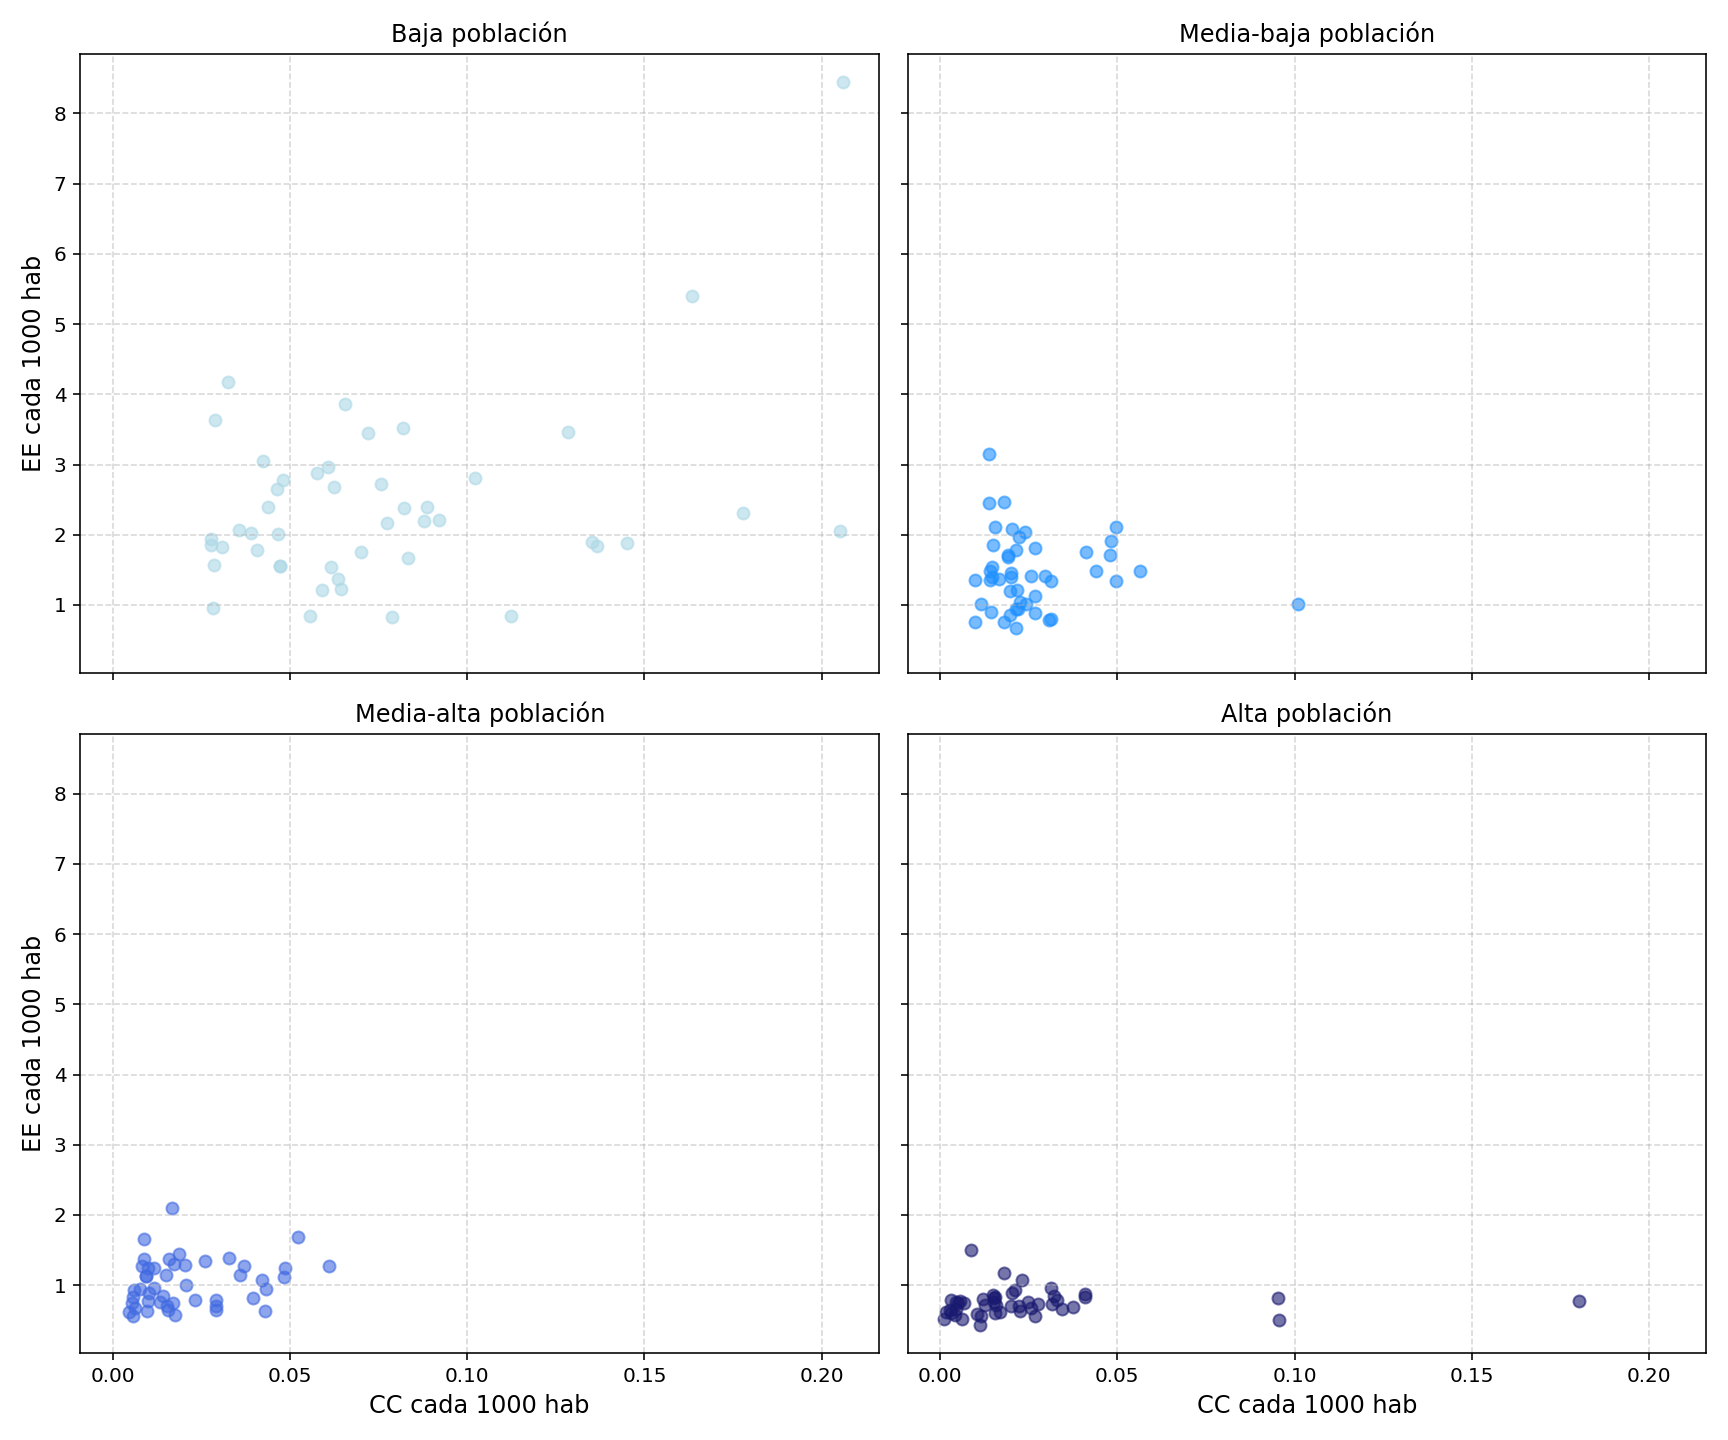
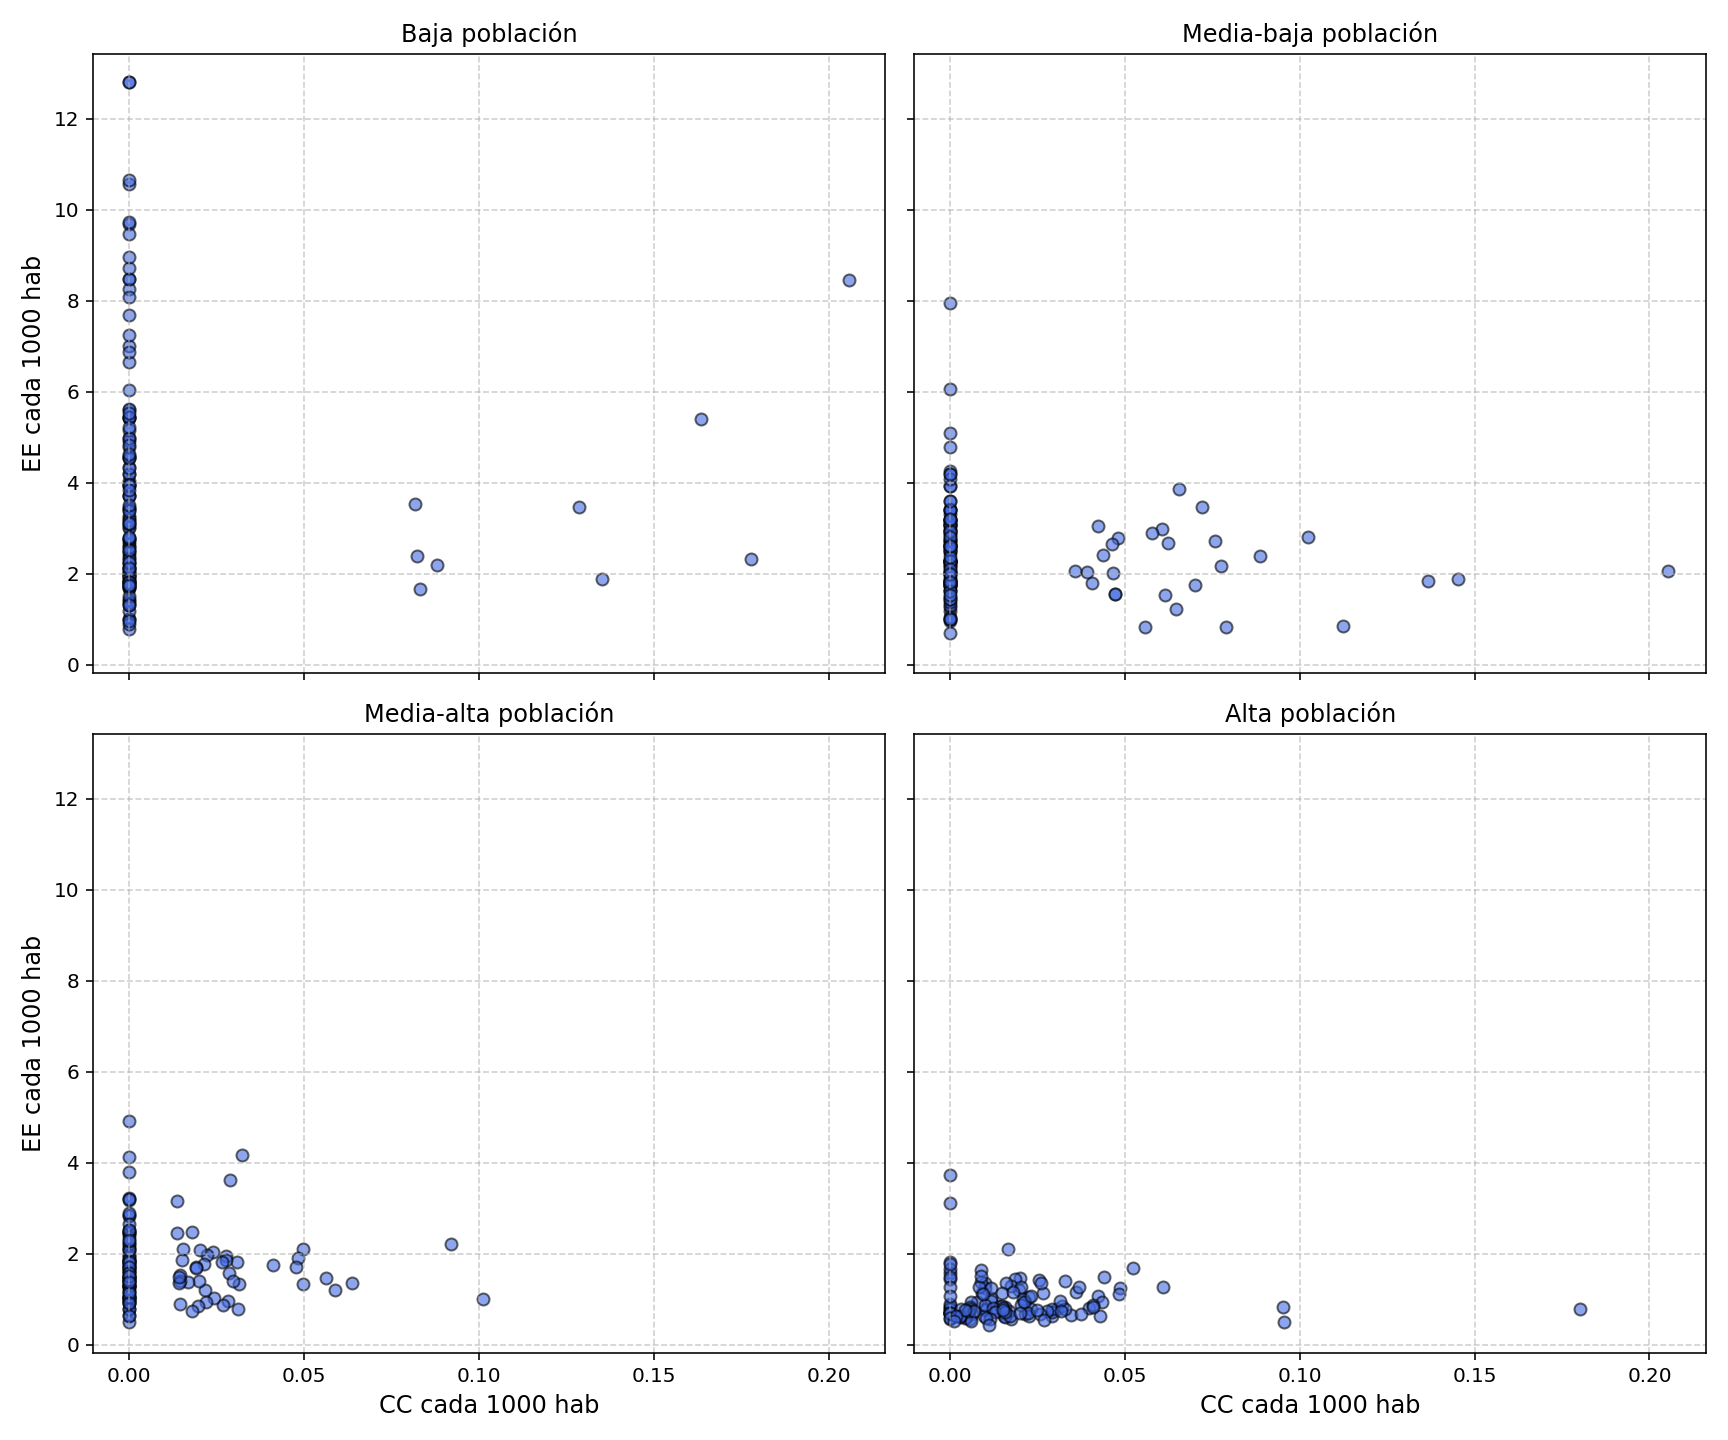
corrección de gráficos

diff --git a/tp1.py b/tp1.py
@@ -27,7 +27,7 @@ establecimientos_educativos = pd.read_excel(carpeta + '2022_padron_oficial_estab
 
 centros_culturales = pd.read_csv(carpeta + 'centros_culturales.csv')
 
-padron_poblacion = pd.read_excel(carpeta + 'padron_poblacion.xlsx')
+padron_poblacion = pd.read_excel(carpeta + 'padron_poblacion.xlsX')
 
 #%% 
 """ 
@@ -169,12 +169,13 @@ nrosvalidos = dd.sql(
     WHERE LENGTH(Teléfono) > 5
     AND Teléfono NOT IN ('0', '1', '-', 'sn', 's/n', '', ' ', '.', 'ss', 's/inf.', 'S/Inf.',
                          'SN', 'S/N', 's/inf', 'ooooooo', 'no tiene', 'no posee', 'None', 'No posee',
-                         '999999', '9999999', '99999999', '999999999', 'CAB.PUB.80260',
+                         'CAB.PUB.80260',
                          'NO POSEE', 
                          'RED OFICIAL 978',
                          'SE CREA POR RESOL. 1707/2022 MECCyT FECHA:27/04/22',
                          'SE CREA POR RESOL. N°1790/2021 MECCyT FECHA:10/12/21')
     AND Teléfono NOT LIKE '00%'  -- Sacámos los nros que empiezan con 00
+    AND Teléfono NOT LIKE '99%'  -- Sacámos los nros que empiezan con 99
     AND Teléfono NOT LIKE '%*'
     AND Teléfono NOT LIKE '*%'
     AND Teléfono IS NOT NULL
@@ -686,7 +687,6 @@ plt.rcParams['font.family'] = 'sans-serif'
 ax.bar(data = cantidad_de_cc_por_provincia_con_nombre, x='Provincia', height='cant_de_cc_por_prov')
 
 
-ax.set_title('Cantidad de centros culturales por provincias')
 ax.set_ylabel('Cantidad de centros culturales', fontsize='medium')
 plt.tight_layout()
 plt.xticks(rotation=-60, fontsize=5, ha = 'left')
@@ -769,24 +769,24 @@ palette = sns.color_palette("colorblind", n_colors=20)
 # Asignamos cada color a una variable
 color_jardin     = 'black'       # palette[17]  # naranjita
 color_primario   = palette[0]  # azul
-color_secundario = palette[11]  # naranja
+color_secundario = palette[11]  # naranja, 0, 11
 
 ax.scatter(
     centros_educativos_por_departamento['total_poblacion'],
     centros_educativos_por_departamento['Jardines'],
-    s=6, color=color_jardin, alpha = 0.5, label="Jardín"
+    s=10, color=color_jardin, alpha = 0.6, label="Jardín"
 )
 
 ax.scatter(
     centros_educativos_por_departamento['total_poblacion'],
     centros_educativos_por_departamento['Primarios'],
-    s=6, color=color_primario, alpha = 0.47, label="Primario"
+    s=10, color=color_primario, alpha = 0.57, label="Primario"
 )
 
 ax.scatter(
     centros_educativos_por_departamento['total_poblacion'],
     centros_educativos_por_departamento['Secundarios'],
-    s=6, color=color_secundario, alpha = 0.44, label="Secundario"
+    s=10, color=color_secundario, alpha = 0.54, label="Secundario"
 )
 
 ax.set_xlabel('Cantidad de habitantes', fontsize='medium')  
@@ -955,14 +955,14 @@ plt.rcParams['font.family'] = 'sans-serif'
 
 ax.bar(data = poblacion_por_provincia_con_nombre, x='Provincia', height='poblacion')
 
-
-ax.set_title('Poblacion por provincias')
 ax.set_xlabel('')
-ax.set_ylabel('Poblacion', fontsize='medium')
+ax.set_ylabel('Poblacion(Millones de habitantes)', fontsize='medium')
 
 
 plt.tight_layout()
 plt.xticks(rotation=-60, fontsize=5, ha = 'left')
+ax.yaxis.set_major_formatter(plt.FuncFormatter(lambda x, _: f'{int(x/1e6)}M')) # Sacamos la notación exponencial
+
             
 fig.savefig('población por provincia.')
 
@@ -1013,101 +1013,60 @@ fig.savefig('iii')
 #%%            
 """------------------------------------------Ejercicio iv)-----------------------------------------------------------"""           
 
+
+"""
+Scatterplot simple
+"""
+
 proporciones = ejercicio_iii.copy()
 
 # Agregamos las proporciones correctas al DataFrame
 proporciones["proporcion_ee_1000_hab"] = (proporciones["ee_por_depto"] / proporciones["poblacion"]) * 1000
 proporciones["proporcion_cc_1000_hab"] = (proporciones["cc_por_depto"] / proporciones["poblacion"]) * 1000
 
-# Reemplazamos NaN por 0 en caso de divisiones por 0
-ejercicio_iii.fillna(0, inplace=True)
-
 proporciones = proporciones.sort_values("poblacion")
 
 
-ejercicio_iii_por_prov = dd.sql("""
-                                    SELECT Provincia, sum(ee_por_depto) as ee_por_prov, sum(cc_por_depto) as cc_por_prov, sum(poblacion) as poblacion
-                                    FROM ejercicio_iii
-                                    GROUP BY Provincia
-""").df()
+# Extraemos las variables
+x = proporciones["proporcion_cc_1000_hab"]
+y = proporciones["proporcion_ee_1000_hab"]
+poblacion = proporciones["poblacion"]
 
-proporciones = proporciones.sort_values('poblacion')
+# Creamos la figura
+plt.figure(figsize=(10, 6))
 
-proporciones["Provincia"] = proporciones["Provincia"].str.title()  
+# Scatter plot con tamaño basado en la población
+plt.scatter(x, y, alpha=0.6, color="royalblue", edgecolors="black", linewidth=0.5)
 
-proporciones["Provincia"] = proporciones["Provincia"].replace({
-    "Tierra Del Fuego, Antártida E Islas Del Atlántico Sur": "Tierra del Fuego",
-    "Ciudad Autónoma De Buenos Aires": "Caba"
-})
+# Ajuste estético
+plt.grid(True, linestyle="--", alpha=0.5)
+plt.tight_layout()
 
-df_resultado = proporciones.melt(id_vars=["Provincia"],
-                              value_vars=["proporcion_ee_1000_hab", "proporcion_cc_1000_hab"],
-                              var_name="Tipo",
-                              value_name="Proporción")
+# Etiquetas y título
+plt.xlabel("Cantidad de CC cada 1000 habitantes", fontsize=12, labelpad=10)
+plt.ylabel("Cantidad de EE cada 1000 habitantes", fontsize=12, labelpad=10)
 
-plt.figure(figsize=(12, 6))
-sns.barplot(data=df_resultado, x="Provincia", y="Proporción", hue="Tipo", palette=["blue", "orange"], errorbar=None)
+# Guardamos la figura
+plt.savefig('iv_relacion_cc_ee_sin_ceros_poblacion.png')
 
-plt.xticks(rotation=90)
-
-plt.title("Proporción de EE y CC cada 1000 habitantes por provincia")
-plt.xlabel("Provincia")
-plt.ylabel("Proporción por 1000 habitantes")
-
-plt.xticks(rotation=-60, fontsize=8)  
-plt.yticks(fontsize=8)
-plt.tight_layout() 
-
-plt.legend(title="Tipo de Establecimiento", labels=["EE cada 1000 hab", "CC cada 1000 hab"])
-
+# Mostramos el gráfico
 plt.show()
-
-fig.savefig('iv')
-#%% Con factor escalante
-
-# Factor de escala
-factor_escala_cc = 30  
-
-proporciones["Provincia"] = proporciones["Provincia"].str.title()  
-
-proporciones["Provincia"] = proporciones["Provincia"].replace({
-    "Tierra Del Fuego, Antártida E Islas Del Atlántico Sur": "Tierra del Fuego",
-    "Ciudad Autónoma De Buenos Aires": "Caba"
-})
-
-df_resultado = proporciones.melt(id_vars=["Provincia"],
-                              value_vars=["proporcion_ee_1000_hab", "proporcion_cc_1000_hab"],
-                              var_name="Tipo",
-                              value_name="Proporción")
-
-df_resultado.loc[df_resultado["Tipo"] == "proporcion_cc_1000_hab", "Proporción"] *= factor_escala_cc
-
-plt.figure(figsize=(12, 6))
-sns.barplot(data=df_resultado, x="Provincia", y="Proporción", hue="Tipo", palette=["blue", "orange"], errorbar=None)
-
-plt.xticks(rotation=-50, fontsize=8)  
-plt.yticks(fontsize=8)
-plt.tight_layout()  
-
-plt.title(" ")
-plt.xlabel("Provincia")
-plt.ylabel(" ")
-
-plt.legend(title="Tipo de Establecimiento", labels=["EE cada 1000 hab", f"CC cada 30000 hab"])
-
-fig.savefig('iv con factor escala 20 para CC')
-
-#%%
-""" 
-                                         ##############################
-                                         #####  Muchas gracias :) ##### 
-                                         ##############################
-"""
 #%%
 
 """
-Scatterplot simple
+Ahora hagamos el plot solo con los departamento que tienen al menos 1 CC
 """
+
+
+proporciones = ejercicio_iii.copy()
+
+# Agregamos las proporciones correctas al DataFrame
+proporciones["proporcion_ee_1000_hab"] = (proporciones["ee_por_depto"] / proporciones["poblacion"]) * 1000
+proporciones["proporcion_cc_1000_hab"] = (proporciones["cc_por_depto"] / proporciones["poblacion"]) * 1000
+
+
+proporciones = proporciones.sort_values("poblacion")
+
 
 # Filtramos los valores donde ambos sean mayores a 0
 proporciones_filtradas = proporciones[
@@ -1123,7 +1082,7 @@ poblacion = proporciones_filtradas["poblacion"]
 plt.figure(figsize=(10, 6))
 
 # Scatter plot con tamaño basado en la población
-plt.scatter(x, y, alpha=0.9, color="royalblue", edgecolors="black", linewidth=0.5)
+plt.scatter(x, y, alpha=0.6, color="royalblue", edgecolors="black", linewidth=0.5)
 
 # Ajuste estético
 plt.grid(True, linestyle="--", alpha=0.5)
@@ -1138,22 +1097,17 @@ plt.savefig('iv_relacion_cc_ee_sin_ceros_poblacion.png')
 
 # Mostramos el gráfico
 plt.show()
-
 #%%
+
 
 """
 Veamos si separando por c/habitantes notamos algo más
 """
 
-# Filtramos los valores donde ambos sean mayores a 0
-proporciones_filtradas = proporciones[
-    (proporciones["proporcion_cc_1000_hab"] > 0) & (proporciones["proporcion_ee_1000_hab"] > 0)
-]
-
 # Extraemos las variables
-x = proporciones_filtradas["proporcion_cc_1000_hab"]
-y = proporciones_filtradas["proporcion_ee_1000_hab"]
-poblacion = proporciones_filtradas["poblacion"]
+x = proporciones["proporcion_cc_1000_hab"]
+y = proporciones["proporcion_ee_1000_hab"]
+poblacion = proporciones["poblacion"]
 
 # Definimos los cuartiles de la población para separar los grupos
 q1, q2, q3 = np.percentile(poblacion, [25, 50, 75])
@@ -1161,8 +1115,7 @@ q1, q2, q3 = np.percentile(poblacion, [25, 50, 75])
 # Creamos el layout 2x2
 fig, axs = plt.subplots(2, 2, figsize=(12, 10), sharex=True, sharey=True)
 
-# Definimos colores para cada grupo
-colores = ["lightblue", "dodgerblue", "royalblue", "midnightblue"]
+# Definimos títulos para cada grupo
 titulos = ["Baja población", "Media-baja población", "Media-alta población", "Alta población"]
 rangos = [
     (poblacion <= q1),
@@ -1171,11 +1124,14 @@ rangos = [
     (poblacion > q3)
 ]
 
+# Color único para todos los gráficos
+color = "royalblue"
+
 # Iteramos sobre los subgráficos
-for ax, rango, color, titulo in zip(axs.flat, rangos, colores, titulos):
-    ax.scatter(x[rango], y[rango], color=color, alpha=0.6)
+for ax, rango, titulo in zip(axs.flat, rangos, titulos):
+    ax.scatter(x[rango], y[rango], color=color, edgecolors="black", alpha=0.6)
     ax.set_title(titulo, fontsize=12)
-    ax.grid(True, linestyle="--", alpha=0.5)
+    ax.grid(True, linestyle="--", alpha=0.6)
 
 # Etiquetas en los ejes
 for ax in axs[:, 0]:
@@ -1205,45 +1161,37 @@ poblacion = proporciones_filtradas["poblacion"]
 # Definimos los cuartiles de la población para separar los grupos
 q1, q2, q3 = np.percentile(poblacion, [25, 50, 75])
 
-# Definimos los rangos de población
-rangos = {
-    "Baja población": poblacion <= q1,
-    "Media-baja población": (poblacion > q1) & (poblacion <= q2),
-    "Media-alta población": (poblacion > q2) & (poblacion <= q3),
-    "Alta población": poblacion > q3
-}
+# Creamos el layout 2x2
+fig, axs = plt.subplots(2, 2, figsize=(12, 10), sharex=True, sharey=True)
 
-# Creamos una figura con 2 filas y 2 columnas
-fig, axs = plt.subplots(2, 2, figsize=(12, 10))
+# Definimos títulos para cada grupo
+titulos = ["Baja población", "Media-baja población", "Media-alta población", "Alta población"]
+rangos = [
+    (poblacion <= q1),
+    ((poblacion > q1) & (poblacion <= q2)),
+    ((poblacion > q2) & (poblacion <= q3)),
+    (poblacion > q3)
+]
 
 # Color único para todos los gráficos
-color = "midnightblue"
+color = "royalblue"
 
-# Iteramos sobre cada subgráfico y rango de población
-for ax, (titulo, filtro) in zip(axs.flat, rangos.items()):
-    x_filtro = x[filtro]
-    y_filtro = y[filtro]
-
-    # Scatter plot en la subfigura correspondiente
-    ax.scatter(x_filtro, y_filtro, color=color, alpha=0.6)
-
-    # Ajustamos los límites de los ejes individualmente
-    ax.set_xlim(0, x_filtro.max() * 1.1 if not x_filtro.empty else 0.01)
-    ax.set_ylim(0, y_filtro.max() * 1.1 if not y_filtro.empty else 0.01)
-
-    # Etiquetas y título
-    ax.set_xlabel("CC cada 1000 hab", fontsize=10)
-    ax.set_ylabel("EE cada 1000 hab", fontsize=10)
+# Iteramos sobre los subgráficos
+for ax, rango, titulo in zip(axs.flat, rangos, titulos):
+    ax.scatter(x[rango], y[rango], color=color, edgecolors="black", alpha=0.6)
     ax.set_title(titulo, fontsize=12)
-
-    # Grid para mejor lectura
     ax.grid(True, linestyle="--", alpha=0.6)
 
-# Ajustamos el diseño para que no se solapen los gráficos
+# Etiquetas en los ejes
+for ax in axs[:, 0]:
+    ax.set_ylabel("EE cada 1000 hab", fontsize=12)
+
+for ax in axs[1, :]:
+    ax.set_xlabel("CC cada 1000 hab", fontsize=12)
+
+# Ajuste de layout
 plt.tight_layout()
 
-# Guardamos la figura con los 4 gráficos juntos
-plt.savefig('iv_relacion_cc_ee_4juntos.png')
+# Guardamos la figura
+plt.savefig('iv_relacion_cc_ee_separado_por_poblacion.png')
 
-# Mostramos el gráfico con los 4 plots juntos
-plt.show()
